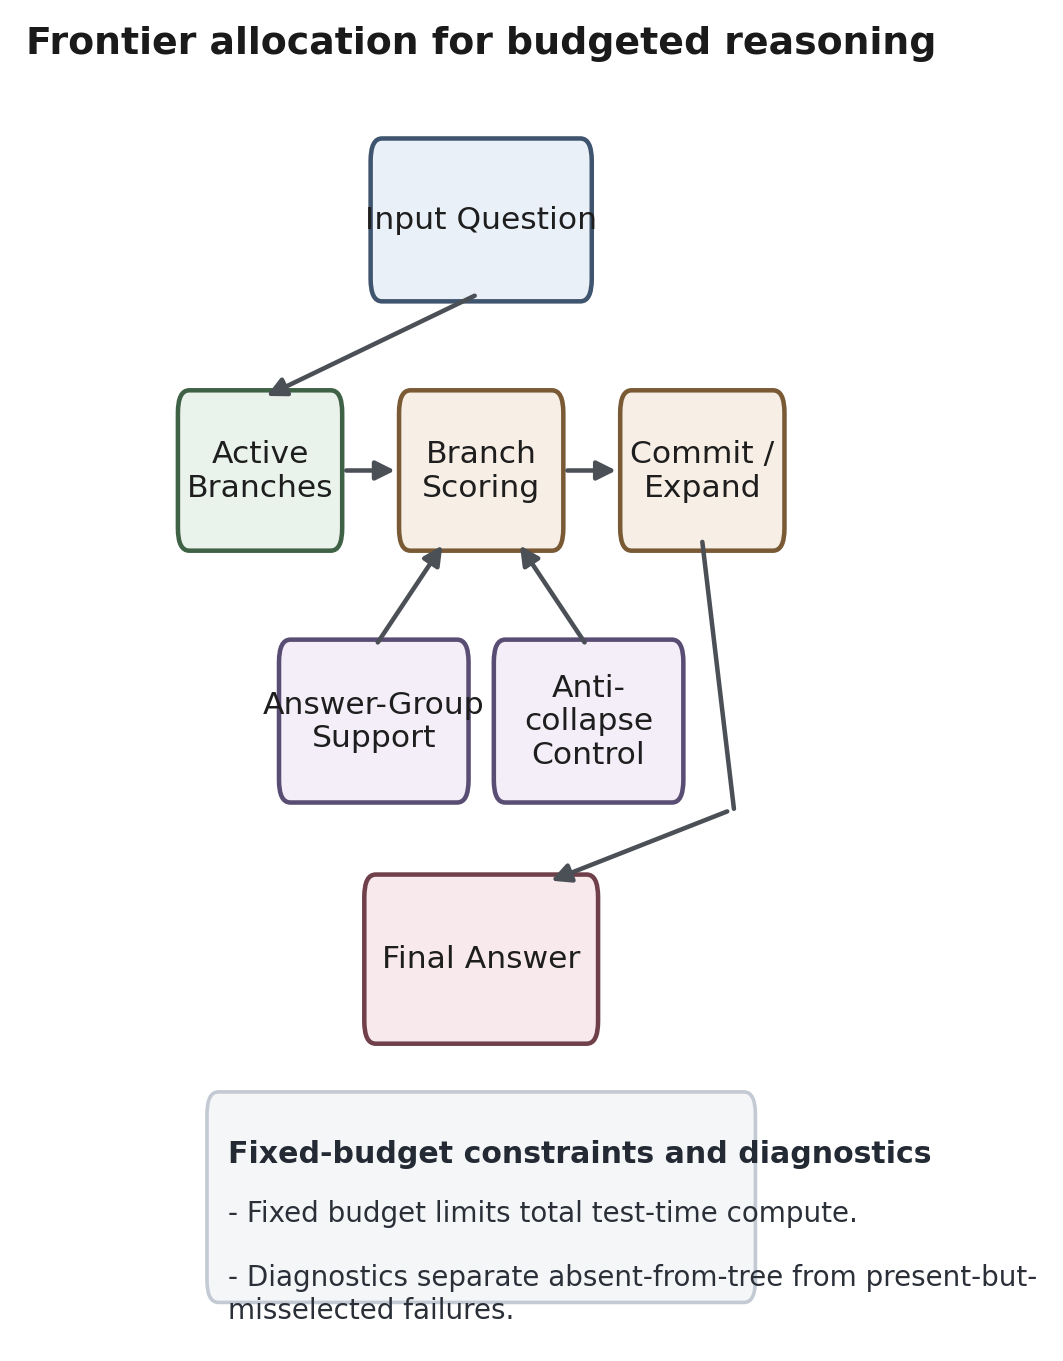
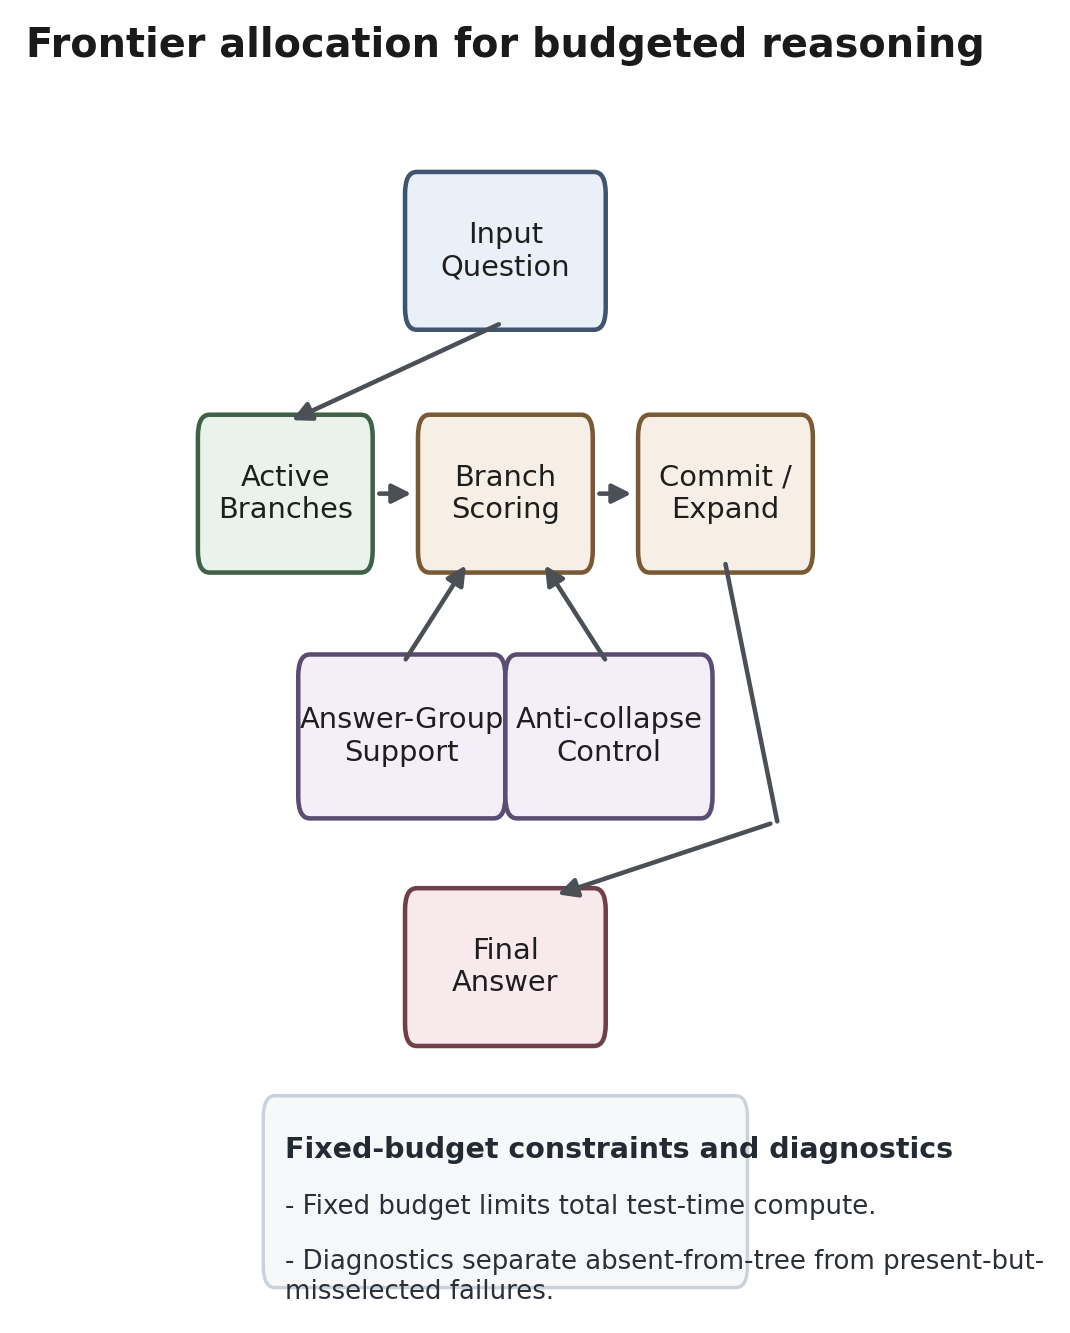
Polish Figure 1 layout balance and label wrapping.
Refine the existing vertical-flow schematic with forced symmetric label breaks, cleaner box alignment, tidier arrow routing, and a lighter diagnostics panel so the single-column NeurIPS rendering reads cleanly.

Made-with: Cursor

Changed region(s): [[0.1552, 0.0923, 0.9624, 0.9842], [0.031, 0.0, 0.9313, 0.0615], [0.714, 0.5844, 0.7451, 0.6152]]

diff --git a/scripts/paper/plot_figure1_problem_setup.py b/scripts/paper/plot_figure1_problem_setup.py
@@ -9,7 +9,6 @@ import matplotlib.pyplot as plt
 
 from paper_data_sources import FIGURE_DIR, PLOT_DATA_DIR
 from plot_helpers import save_fig
-from paper_style import STYLE
 
 
 def main() -> None:
@@ -18,7 +17,7 @@ def main() -> None:
         raise FileNotFoundError(f"Missing figure1 spec: {spec_path}")
     spec = json.loads(spec_path.read_text(encoding="utf-8"))
 
-    fig, ax = plt.subplots(figsize=(3.45, 5.35))
+    fig, ax = plt.subplots(figsize=(3.45, 5.25))
     ax.axis("off")
 
     kind_style = {
@@ -33,19 +32,18 @@ def main() -> None:
     node_map = {n["id"]: n for n in spec["nodes"]}
     # Strict 3-stage vertical flow with separated auxiliary controls.
     node_pos = {
-        "input": (0.50, 0.89),
-        "branches": (0.15, 0.69),
-        "scoring": (0.50, 0.69),
-        "commit": (0.85, 0.69),
-        "support": (0.33, 0.49),
-        "anticollapse": (0.67, 0.49),
-        "final": (0.50, 0.30),
+        "input": (0.50, 0.87),
+        "branches": (0.16, 0.67),
+        "scoring": (0.50, 0.67),
+        "commit": (0.84, 0.67),
+        "support": (0.34, 0.47),
+        "anticollapse": (0.66, 0.47),
+        "final": (0.50, 0.28),
     }
-    box_wide = (0.23, 0.098)
-    box_mid = (0.23, 0.098)
-    box_aux = (0.27, 0.10)
-    box_top = (0.32, 0.10)
-    box_bottom = (0.34, 0.105)
+    box_mid = (0.24, 0.10)
+    box_aux = (0.29, 0.105)
+    box_top = (0.28, 0.10)
+    box_bottom = (0.28, 0.10)
     box_size = {
         "input": box_top,
         "branches": box_mid,
@@ -55,6 +53,16 @@ def main() -> None:
         "anticollapse": box_aux,
         "final": box_bottom,
     }
+    forced_label = {
+        "input": "Input\nQuestion",
+        "branches": "Active\nBranches",
+        "scoring": "Branch\nScoring",
+        "commit": "Commit /\nExpand",
+        "support": "Answer-Group\nSupport",
+        "anticollapse": "Anti-collapse\nControl",
+        "final": "Final\nAnswer",
+    }
+
     anchors: dict[str, dict[str, tuple[float, float]]] = {}
 
     for nid, (cx, cy) in node_pos.items():
@@ -76,17 +84,14 @@ def main() -> None:
                 transform=ax.transAxes,
             )
         )
-        wrap_width = 18
-        if nid in {"branches", "scoring", "commit", "support", "anticollapse"}:
-            wrap_width = 12
-        wrapped = "\n".join(textwrap.wrap(n["label"], width=wrap_width))
+        wrapped = forced_label.get(nid, n["label"])
         ax.text(
             cx,
             cy,
             wrapped,
             ha="center",
             va="center",
-            fontsize=8.7,
+            fontsize=8.0,
             color="#1e1e1e",
             transform=ax.transAxes,
         )
@@ -117,10 +122,10 @@ def main() -> None:
 
     # Main flow: Input -> Active Branches -> Branch Scoring -> Commit/Expand -> Final Answer.
     _arrow((anchors["input"]["bottom"][0], anchors["input"]["bottom"][1] - 0.008), (anchors["branches"]["top"][0], anchors["branches"]["top"][1] + 0.008))
-    _arrow((anchors["branches"]["right"][0] + 0.01, anchors["branches"]["right"][1]), (anchors["scoring"]["left"][0] - 0.01, anchors["scoring"]["left"][1]))
-    _arrow((anchors["scoring"]["right"][0] + 0.01, anchors["scoring"]["right"][1]), (anchors["commit"]["left"][0] - 0.01, anchors["commit"]["left"][1]))
+    _arrow((anchors["branches"]["right"][0] + 0.014, anchors["branches"]["right"][1]), (anchors["scoring"]["left"][0] - 0.014, anchors["scoring"]["left"][1]))
+    _arrow((anchors["scoring"]["right"][0] + 0.014, anchors["scoring"]["right"][1]), (anchors["commit"]["left"][0] - 0.014, anchors["commit"]["left"][1]))
     # Route commit->final around the right side to avoid crossing auxiliary text.
-    bend_pt = (0.90, 0.42)
+    bend_pt = (0.92, 0.40)
     start_pt = (anchors["commit"]["bottom"][0], anchors["commit"]["bottom"][1] - 0.008)
     ax.plot(
         [start_pt[0], bend_pt[0]],
@@ -130,49 +135,49 @@ def main() -> None:
         transform=ax.transAxes,
         solid_capstyle="round",
     )
-    _arrow((bend_pt[0], bend_pt[1]), (anchors["final"]["top"][0] + 0.10, anchors["final"]["top"][1] + 0.008))
+    _arrow((bend_pt[0], bend_pt[1]), (anchors["final"]["top"][0] + 0.07, anchors["final"]["top"][1] + 0.008))
 
     # Auxiliary modules feed into Branch Scoring.
-    _arrow((anchors["support"]["top"][0], anchors["support"]["top"][1] + 0.008), (anchors["scoring"]["bottom"][0] - 0.055, anchors["scoring"]["bottom"][1] - 0.006))
-    _arrow((anchors["anticollapse"]["top"][0], anchors["anticollapse"]["top"][1] + 0.008), (anchors["scoring"]["bottom"][0] + 0.055, anchors["scoring"]["bottom"][1] - 0.006))
+    _arrow((anchors["support"]["top"][0], anchors["support"]["top"][1] + 0.006), (anchors["scoring"]["bottom"][0] - 0.055, anchors["scoring"]["bottom"][1] - 0.004))
+    _arrow((anchors["anticollapse"]["top"][0], anchors["anticollapse"]["top"][1] + 0.006), (anchors["scoring"]["bottom"][0] + 0.055, anchors["scoring"]["bottom"][1] - 0.004))
 
     # Secondary diagnostics panel below main flow.
     notes = spec.get("notes", [])[:2]
-    panel_x, panel_y, panel_w, panel_h = 0.08, 0.04, 0.84, 0.14
+    panel_x, panel_y, panel_w, panel_h = 0.14, 0.03, 0.72, 0.13
     ax.add_patch(
         FancyBboxPatch(
             (panel_x, panel_y),
             panel_w,
             panel_h,
             boxstyle="round,pad=0.014,rounding_size=0.018",
-            fc="#f5f6f8",
-            ec="#c4cad3",
-            lw=1.0,
+            fc="#f7f8fa",
+            ec="#ccd2da",
+            lw=0.95,
             transform=ax.transAxes,
         )
     )
     ax.text(
         panel_x + 0.02,
-        panel_y + panel_h - 0.042,
+        panel_y + panel_h - 0.037,
         "Fixed-budget constraints and diagnostics",
-        fontsize=8.3,
+        fontsize=7.9,
         fontweight="semibold",
         color="#232a34",
         transform=ax.transAxes,
     )
     for idx, note in enumerate(notes):
-        wrapped_note = textwrap.fill(note, width=64)
+        wrapped_note = textwrap.fill(note, width=58)
         ax.text(
             panel_x + 0.02,
-            panel_y + panel_h - 0.072 - idx * 0.051,
+            panel_y + panel_h - 0.067 - idx * 0.045,
             f"- {wrapped_note}",
-            fontsize=7.7,
+            fontsize=7.2,
             color="#2a2f38",
             transform=ax.transAxes,
             va="top",
         )
 
-    ax.set_title(spec.get("title", "Figure 1"), fontsize=10.5, fontweight="bold", color="#1a1a1a", pad=8.0)
+    ax.set_title(spec.get("title", "Figure 1"), fontsize=11.0, fontweight="bold", color="#1a1a1a", pad=10.0)
     save_fig(fig, FIGURE_DIR / "figure1_problem_setup.pdf", FIGURE_DIR / "figure1_problem_setup.png")
 
 